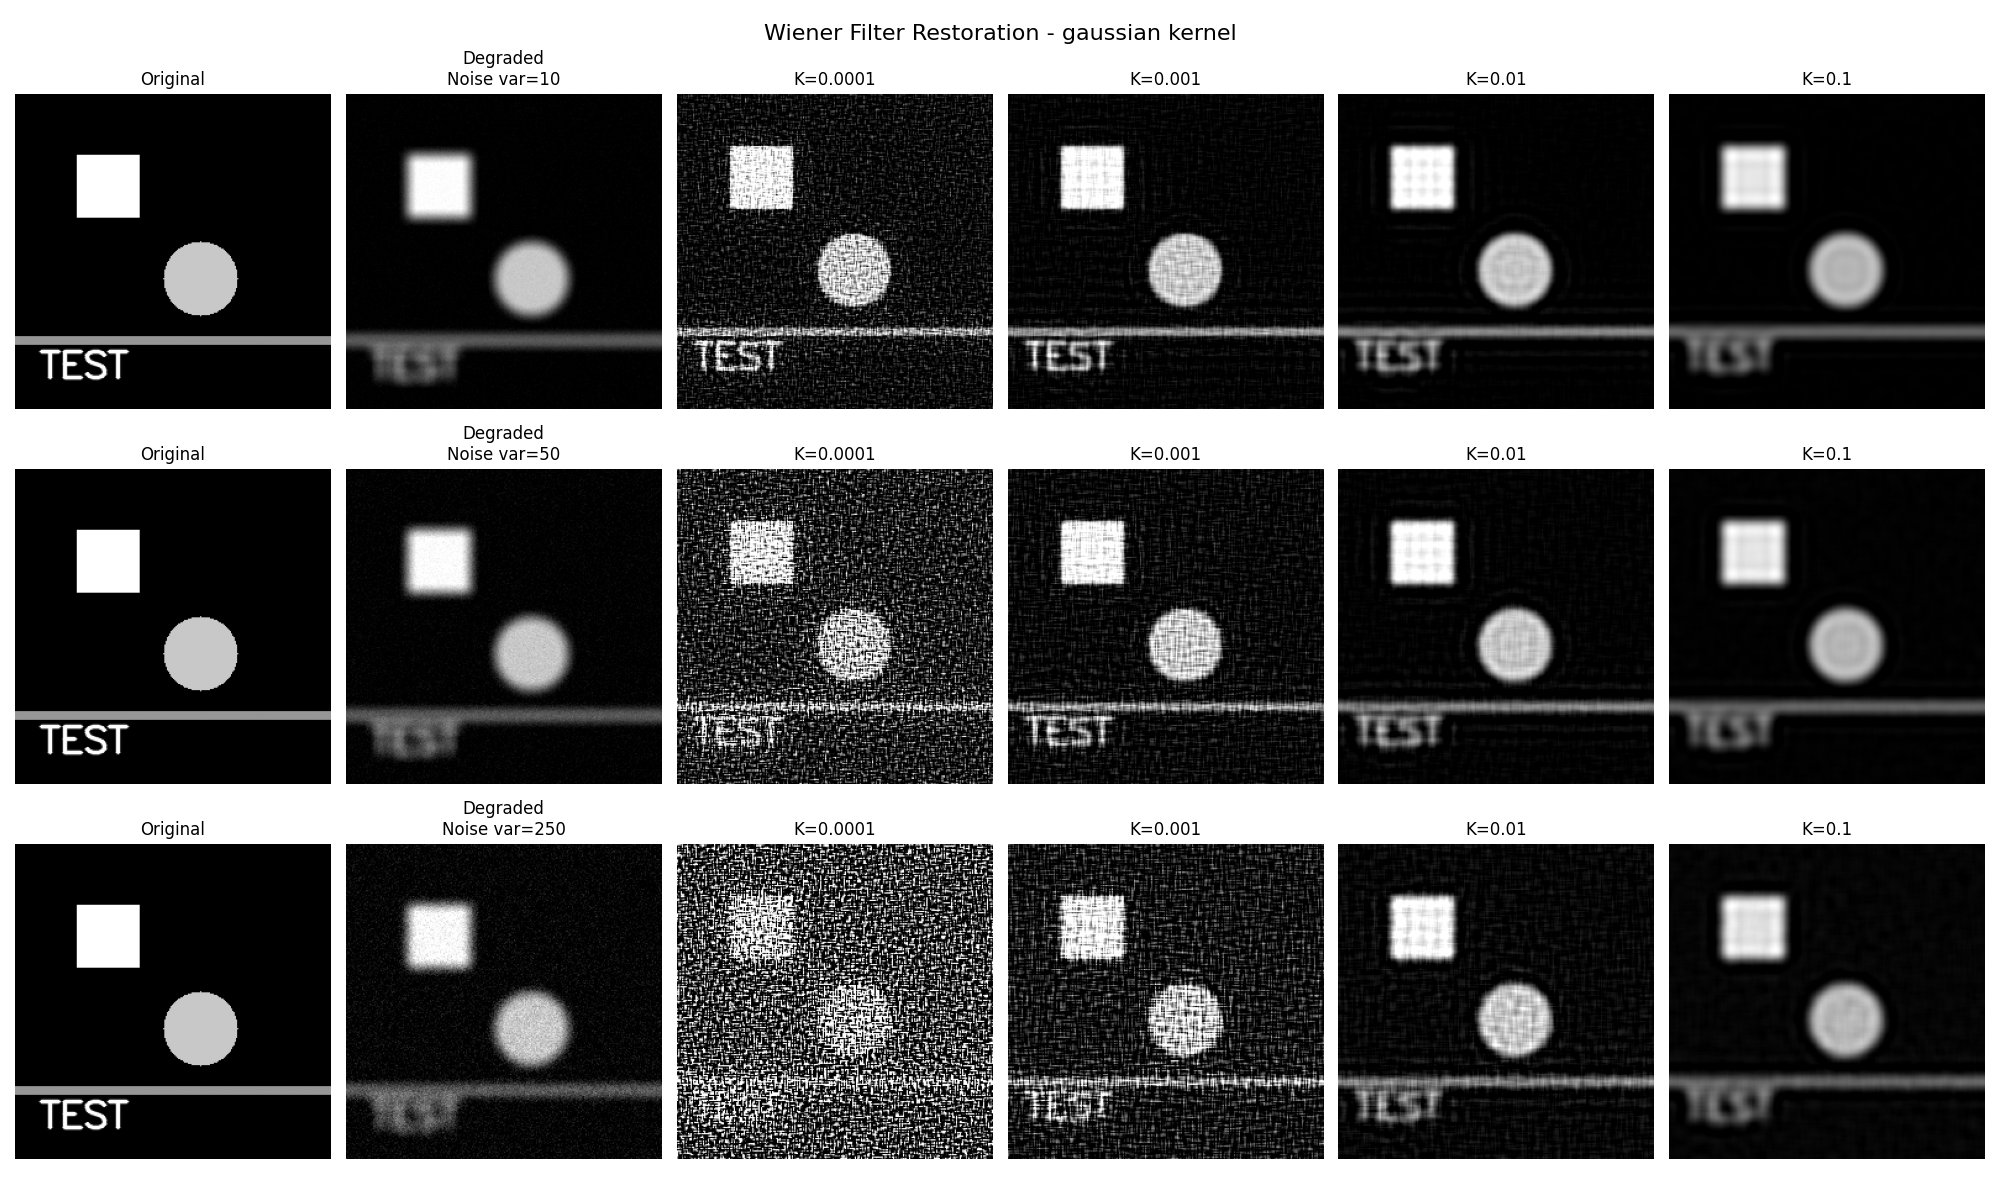
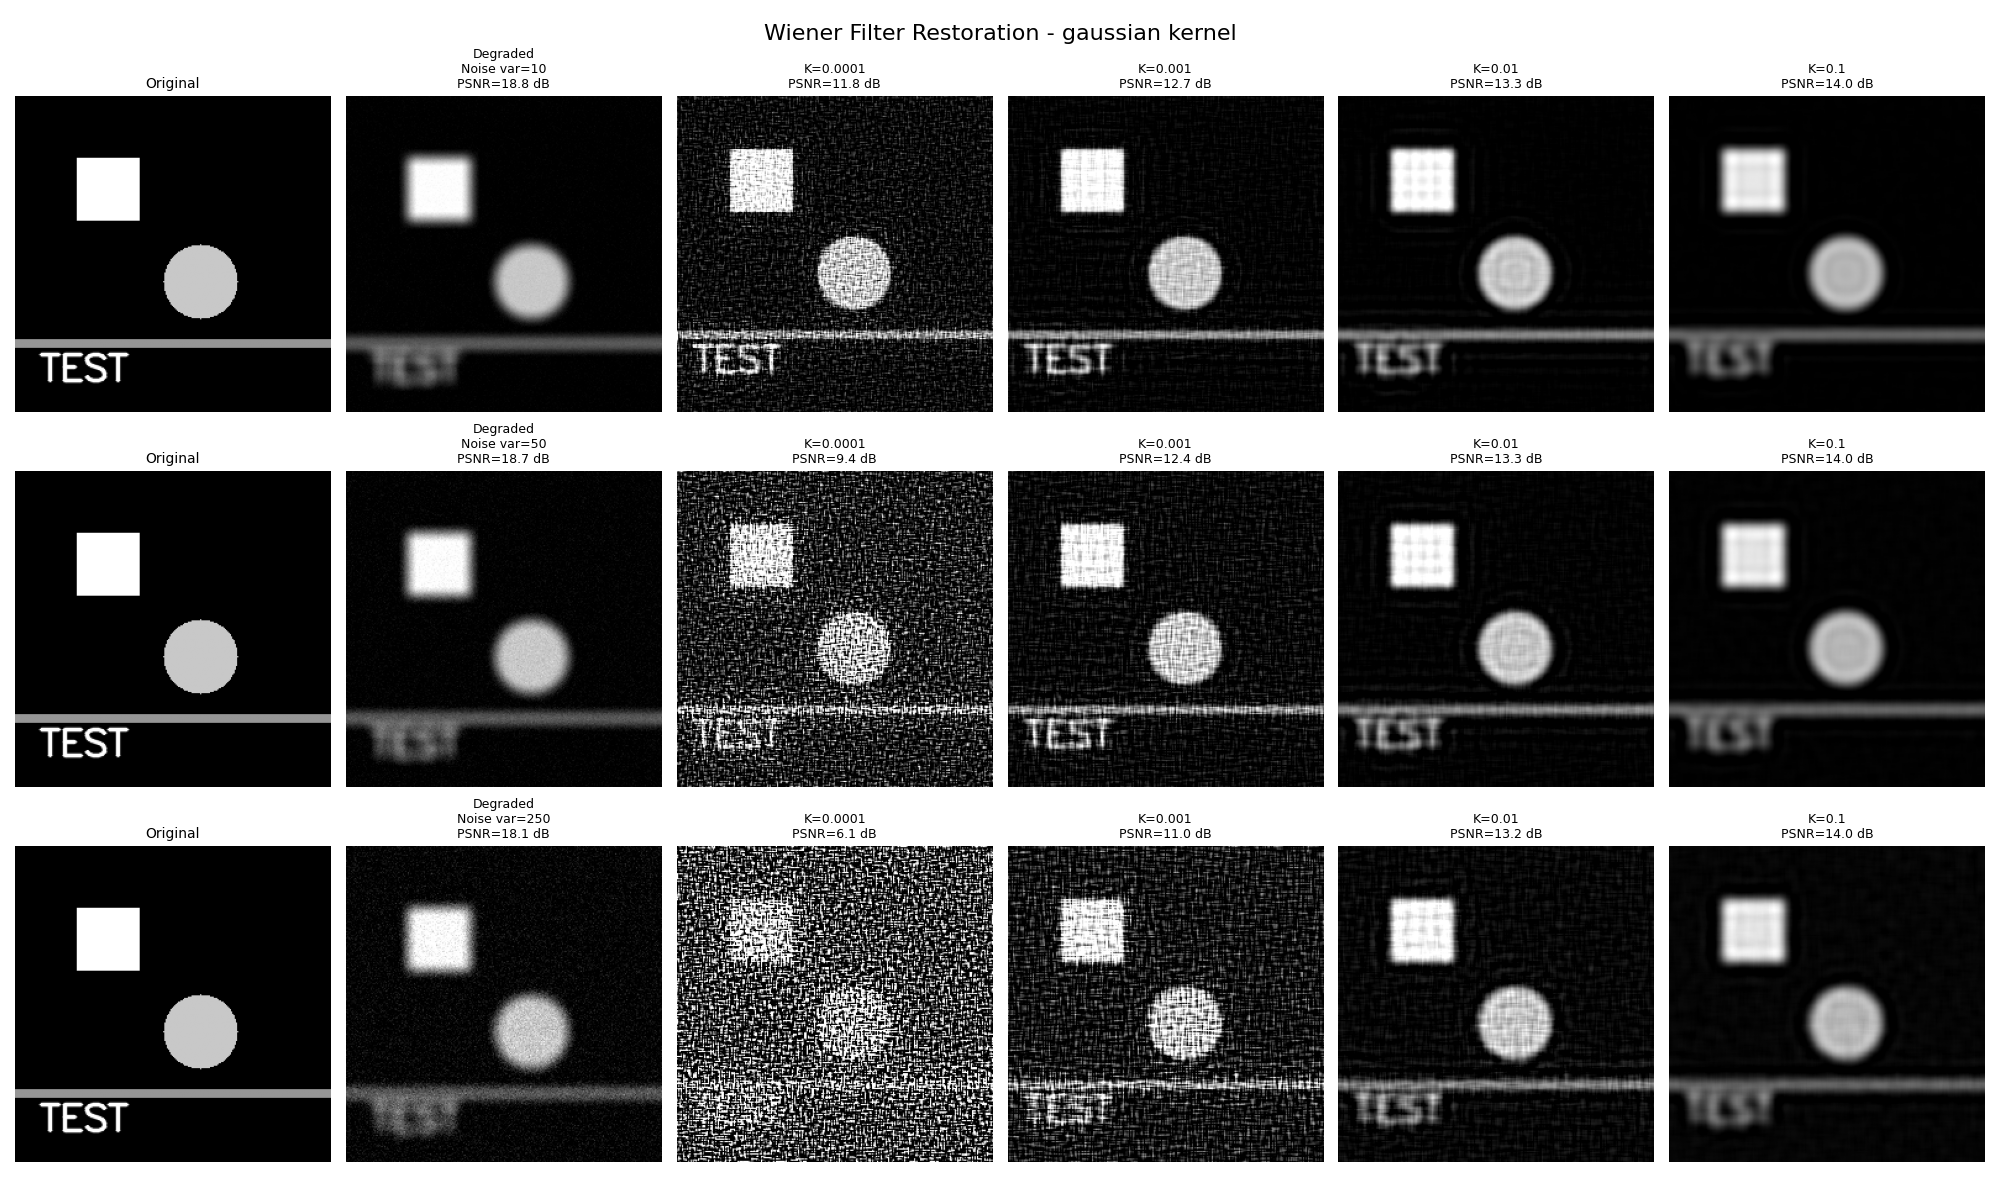
Progress

diff --git a/Ex_3_3/main.py b/Ex_3_3/main.py
@@ -1,7 +1,9 @@
 import numpy as np
 import cv2
 import matplotlib.pyplot as plt
-from typing import Tuple, Optional
+from typing import Tuple
+
+from Samples import create_synthetic_image
 
 
 class WienerFilter:
@@ -206,6 +208,22 @@ class WienerFilter:
 
         return np.clip(restored, 0, 255).astype(np.uint8)
 
+    def calculate_psnr(self, original: np.ndarray, restored: np.ndarray) -> float:
+        """
+        Calculate Peak Signal-to-Noise Ratio (PSNR) between original and restored image.
+
+        Args:
+            original: Original image
+            restored: Restored image
+
+        Returns:
+            PSNR value in dB
+        """
+        mse = np.mean((original.astype(float) - restored.astype(float)) ** 2)
+        if mse == 0:
+            return float('inf')
+        return 10 * np.log10(255 ** 2 / mse)
+
     def demonstrate_restoration(self, image_path: str):
         """
         Demonstrate the complete Wiener filter restoration process.
@@ -214,7 +232,7 @@ class WienerFilter:
         img = cv2.imread(image_path, cv2.IMREAD_GRAYSCALE)
         if img is None:
             # Create synthetic image if file not found
-            img = self.create_synthetic_image()
+            img = create_synthetic_image()
 
         # Create kernels
         kernel_size = 15
@@ -237,44 +255,54 @@ class WienerFilter:
                 # Degrade image
                 degraded = self.degrade_image(img, kernel, noise_var)
 
+                # Calculate PSNR for degraded image
+                degraded_psnr = self.calculate_psnr(img, degraded)
+
                 # Show original and degraded
                 axes[i, 0].imshow(img, cmap='gray')
-                axes[i, 0].set_title('Original')
+                axes[i, 0].set_title('Original', fontsize=10)
                 axes[i, 0].axis('off')
 
                 axes[i, 1].imshow(degraded, cmap='gray')
-                axes[i, 1].set_title(f'Degraded\nNoise var={noise_var}')
+                axes[i, 1].set_title(f'Degraded\nNoise var={noise_var}\nPSNR={degraded_psnr:.1f} dB',
+                                     fontsize=9)
                 axes[i, 1].axis('off')
 
                 # Test different K values
                 for j, K in enumerate(K_values):
                     restored = self.wiener_deconvolution(degraded, kernel, K)
 
+                    # Calculate PSNR for restored image
+                    psnr = self.calculate_psnr(img, restored)
+
                     axes[i, j + 2].imshow(restored, cmap='gray')
-                    axes[i, j + 2].set_title(f'K={K}')
+                    axes[i, j + 2].set_title(f'K={K}\nPSNR={psnr:.1f} dB', fontsize=9)
                     axes[i, j + 2].axis('off')
 
-                    # Calculate PSNR
-                    mse = np.mean((img.astype(float) - restored.astype(float)) ** 2)
-                    if mse > 0:
-                        psnr = 10 * np.log10(255 ** 2 / mse)
-                        print(f"  Noise var={noise_var}, K={K}: PSNR={psnr:.2f} dB")
+                    print(f"  Noise var={noise_var}, K={K}: PSNR={psnr:.2f} dB")
 
             plt.tight_layout()
             plt.show()
 
             # Also test with Butterworth filtering
-            self.test_butterworth_enhancement(img, kernel, noise_variances[1])
+            self.test_butterworth_enhancement(img, kernel, noise_variances[1], kernel_name)
 
     def test_butterworth_enhancement(self, img: np.ndarray, kernel: np.ndarray,
-                                     noise_var: float):
+                                     noise_var: float, kernel_name: str = "Unknown"):
         """
         Test Wiener filter with and without Butterworth filtering.
+
+        Args:
+            img: Original image
+            kernel: Blur kernel
+            noise_var: Noise variance
+            kernel_name: Name of the kernel for display purposes
         """
         degraded = self.degrade_image(img, kernel, noise_var)
+        degraded_psnr = self.calculate_psnr(img, degraded)
 
         fig, axes = plt.subplots(1, 4, figsize=(16, 4))
-        fig.suptitle('Wiener Filter with Butterworth Enhancement', fontsize=14)
+        fig.suptitle(f'Wiener Filter with Butterworth Enhancement - {kernel_name} kernel', fontsize=14)
 
         # Original and degraded
         axes[0].imshow(img, cmap='gray')
@@ -282,41 +310,32 @@ class WienerFilter:
         axes[0].axis('off')
 
         axes[1].imshow(degraded, cmap='gray')
-        axes[1].set_title('Degraded')
+        axes[1].set_title(f'Degraded\nPSNR={degraded_psnr:.1f} dB')
         axes[1].axis('off')
 
         # Wiener without Butterworth
         K = 0.01
         restored_no_butter = self.wiener_deconvolution(degraded, kernel, K)
+        psnr_no_butter = self.calculate_psnr(img, restored_no_butter)
         axes[2].imshow(restored_no_butter, cmap='gray')
-        axes[2].set_title('Wiener (no Butterworth)')
+        axes[2].set_title(f'Wiener (no Butterworth)\nPSNR={psnr_no_butter:.1f} dB')
         axes[2].axis('off')
 
         # Wiener with Butterworth
         restored_butter = self.wiener_with_butterworth(degraded, kernel, K, cutoff=0.3)
+        psnr_butter = self.calculate_psnr(img, restored_butter)
         axes[3].imshow(restored_butter, cmap='gray')
-        axes[3].set_title('Wiener + Butterworth')
+        axes[3].set_title(f'Wiener + Butterworth\nPSNR={psnr_butter:.1f} dB')
         axes[3].axis('off')
 
         plt.tight_layout()
         plt.show()
 
-    def create_synthetic_image(self, size: Tuple[int, int] = (256, 256)) -> np.ndarray:
-        """
-        Create a synthetic test image with various features.
-        """
-        img = np.zeros(size, dtype=np.uint8)
+        print(f"PSNR Comparison for {kernel_name} kernel:")
+        print(f"  Degraded: {degraded_psnr:.2f} dB")
+        print(f"  Wiener only: {psnr_no_butter:.2f} dB")
+        print(f"  Wiener + Butterworth: {psnr_butter:.2f} dB")
 
-        # Add some geometric shapes
-        cv2.rectangle(img, (50, 50), (100, 100), 255, -1)
-        cv2.circle(img, (150, 150), 30, 200, -1)
-        cv2.line(img, (0, 200), (256, 200), 150, 5)
-
-        # Add text
-        cv2.putText(img, 'TEST', (20, 230), cv2.FONT_HERSHEY_SIMPLEX,
-                    1, 255, 2, cv2.LINE_AA)
-
-        return img
 
     def visualize_frequency_response(self, kernel: np.ndarray, K_values: list):
         """

diff --git a/Ex_3_3/Samples.py b/Ex_3_3/Samples.py
@@ -1,0 +1,22 @@
+from typing import Tuple
+
+import cv2
+import numpy as np
+
+
+def create_synthetic_image(size: Tuple[int, int] = (256, 256)) -> np.ndarray:
+    """
+    Create a synthetic test image with various features.
+    """
+    img = np.zeros(size, dtype=np.uint8)
+
+    # Add some geometric shapes
+    cv2.rectangle(img, (50, 50), (100, 100), 255, -1)
+    cv2.circle(img, (150, 150), 30, 200, -1)
+    cv2.line(img, (0, 200), (256, 200), 150, 5)
+
+    # Add text
+    cv2.putText(img, 'TEST', (20, 230), cv2.FONT_HERSHEY_SIMPLEX,
+                1, 255, 2, cv2.LINE_AA)
+
+    return img

diff --git a/Ex_3_3/Readme.md b/Ex_3_3/Readme.md
@@ -131,7 +131,32 @@ restored = np.fft.ifft2(F_estimate)
 restored = np.real(restored)
 ```
 
-#### Additional approach Butterworth-Filter `butterworth_filter`
+
+### Test-Pictures
+
+To quantify the results, the PSNR (Peak Signal-to-Noise Ratio) is used. The PSNR is defined as:
+$$
+PSNR = 10 \cdot \log_{10} \left( \frac{MAX^2}{MSE} \right)
+$$
+where:
+- $MAX$ is the maximum possible pixel value (255 for 8-bit images)
+- $MSE$ is the mean squared error between the original and restored images
+
+A higher PSNR value indicates a better restoration quality
+-> better mathematical similarity to the original image.
+Be aware that mathematical similarity does not always mean subjective visual similarity,
+as the test results clearly show.
+
+![mean.png](img/mean.png)
+![gauss.png](img/gauss.png)
+![horizontal.png](img/horizontal.png)
+![vertical.png](img/vertical.png)
+![diagonal.png](img/diagonal.png)
+
+> TODO: Add more test images
+> TODO: Discuss the results
+
+#### Additional approach with additional Butterworth-Filter `butterworth_filter`
 For additional filtering, a Butterworth Lowpass-filter can be applied to the restored image.
 
 The Butterworth filter is defined as:
@@ -157,13 +182,9 @@ where:
 - $W$ is the Wiener filter
 - $B$ is the Butterworth filter
 
-
-> TODO: Disclaimer that this is not always best approach.
-
-
 ### Test-Pictures
-![mean.png](img/mean.png)
-![gauss.png](img/gauss.png)
-![horizontal.png](img/horizontal.png)
-![vertical.png](img/vertical.png)
-![diagonal.png](img/diagonal.png)
+![mean_butterworth.png](img/mean_butterworth.png)
+![gauss_butterworth.png](img/gauss_butterworth.png)
+![horizontal_butterworth.png](img/horizontal_butterworth.png)
+![vertical.png](img/vertical_butterworth.png)
+![diagonal_butterworth.png](img/diagonal_butterworth.png)
